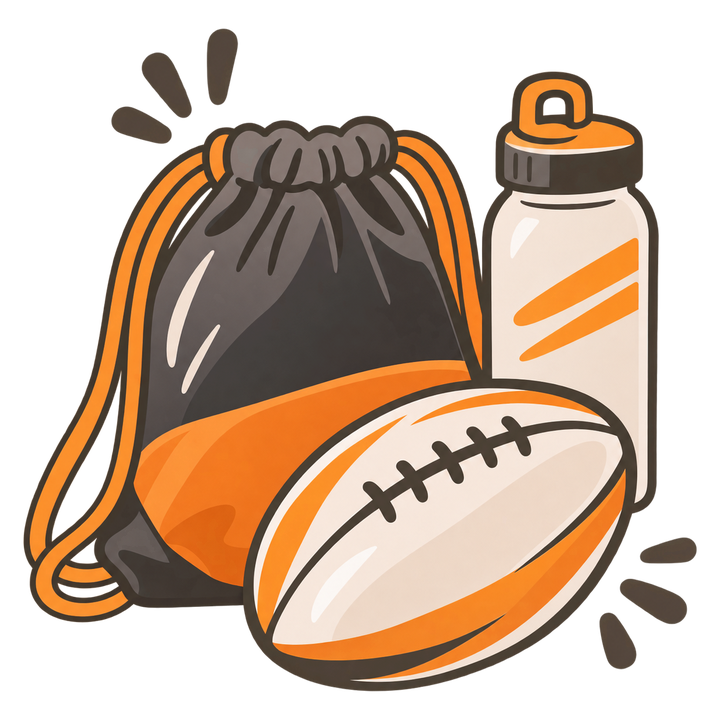
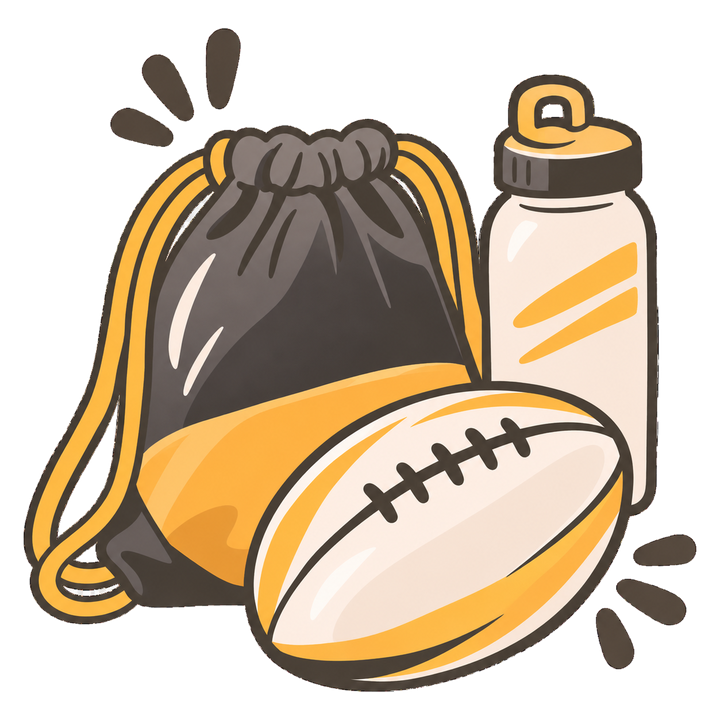
Illustrationen Fürsorge: Körperpflege (Kind), Pflege & Kleidung (Katja), Kinderkleidung; Sport in Honiggelb
Claude-Session: https://claude.ai/code/session_0153etfXZ4ZJ4eYpqE3t9jxu

diff --git a/docs/prompts.md b/docs/prompts.md
@@ -1,55 +1,13 @@
 # Illustrations-Prompts
 
-25 Prompts, je einer pro Karte, fertig zum Kopieren. Schick sie im selben ChatGPT-Chat wie die bisherigen Illustrationen, damit der Stil gleich bleibt.
+22 Prompts, je einer pro Karte, fertig zum Kopieren. Schick sie im selben ChatGPT-Chat wie die bisherigen Illustrationen, damit der Stil gleich bleibt.
 
 - Speichere jede Grafik am besten unter der Kartennummer, z. B. **H2.png** – dann kann ich sie ohne Raten zuordnen.
 - Schick sie mir gesammelt, gern kategorienweise.
 - Wenn eine Grafik nicht passt, einfach im ChatGPT-Chat nachbessern lassen.
 - Die Motive für Self-Care, Freundschaften und Unicorn Space sind persönlich gedacht. Ändere sie gern, bevor du sie abschickst.
 
-## Fürsorge (15)
-
-### C1 · Körperpflege (Kind)
-
-```
-Neue Illustration für unser Kartendeck: „Körperpflege (Kind)“, Kategorie „Fürsorge“.
-
-Motiv: eine kleine Badewanne mit Schaum und Gummiente, daneben eine Shampooflasche und ein gefaltetes Handtuch.
-
-Stil: exakt wie die bisherigen Illustrationen in diesem Chat – Tusche-Linien in warmem Anthrazit (#3A3932), leicht versetzte flächige Farben, gleiche Strichstärke, kleine Bewegungsstriche.
-
-Farben: Akzentfarbe Apricot (#E9B69A) für ausgewählte Flächen, dazu Creme (#FBF1E8) und höchstens eine Nebenfarbe aus Honiggelb (#FEB742), Taubenblau (#AFC4D6), Salbeigrün (#A7A471) oder Altrosa (#C77F91).
-
-Nur die Illustration: keine Karte, kein Rahmen, kein Text, transparenter Hintergrund, quadratisch 1024 × 1024 px.
-```
-
-### C2 · Pflege & Kleidung (Katja)
-
-```
-Neue Illustration für unser Kartendeck: „Pflege & Kleidung (Katja)“, Kategorie „Fürsorge“.
-
-Motiv: ein Kleiderbügel mit einem gemütlichen Strickpulli, daneben ein runder Handspiegel.
-
-Stil: exakt wie die bisherigen Illustrationen in diesem Chat – Tusche-Linien in warmem Anthrazit (#3A3932), leicht versetzte flächige Farben, gleiche Strichstärke, kleine Bewegungsstriche.
-
-Farben: Akzentfarbe Apricot (#E9B69A) für ausgewählte Flächen, dazu Creme (#FBF1E8) und höchstens eine Nebenfarbe aus Honiggelb (#FEB742), Taubenblau (#AFC4D6), Salbeigrün (#A7A471) oder Altrosa (#C77F91).
-
-Nur die Illustration: keine Karte, kein Rahmen, kein Text, transparenter Hintergrund, quadratisch 1024 × 1024 px.
-```
-
-### C5 · Kinderkleidung
-
-```
-Neue Illustration für unser Kartendeck: „Kinderkleidung“, Kategorie „Fürsorge“.
-
-Motiv: ein kleiner Stapel Kinderkleidung mit Pulli und Hose, obendrauf ein Paar bunte Sportsocken.
-
-Stil: exakt wie die bisherigen Illustrationen in diesem Chat – Tusche-Linien in warmem Anthrazit (#3A3932), leicht versetzte flächige Farben, gleiche Strichstärke, kleine Bewegungsstriche.
-
-Farben: Akzentfarbe Apricot (#E9B69A) für ausgewählte Flächen, dazu Creme (#FBF1E8) und höchstens eine Nebenfarbe aus Honiggelb (#FEB742), Taubenblau (#AFC4D6), Salbeigrün (#A7A471) oder Altrosa (#C77F91).
-
-Nur die Illustration: keine Karte, kein Rahmen, kein Text, transparenter Hintergrund, quadratisch 1024 × 1024 px.
-```
+## Fürsorge (12)
 
 ### C6 · Zahnarzt (Kind)
 
